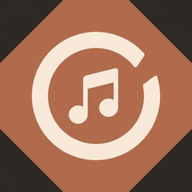
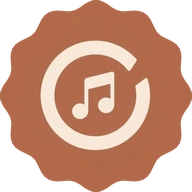
Add files via upload

diff --git a/index.html b/index.html
@@ -6,7 +6,10 @@
 <title>ExMusic — Яндекс Музыка на Material 3 Expressive</title>
 <meta name="description" content="ExMusic — нативный клиент Яндекс Музыки для Android: «Моя волна», чарт, распознавание музыки, эквалайзер, плейлисты и темы под ваш цвет.">
 <meta name="theme-color" content="#12131a">
-<link rel="icon" href="assets/icon.png">
+<link rel="icon" href="favicon.svg" type="image/svg+xml">
+<link rel="icon" href="favicon-32.png" type="image/png" sizes="32x32">
+<link rel="icon" href="favicon.ico" sizes="48x48">
+<link rel="apple-touch-icon" href="apple-touch-icon.png">
 <link rel="stylesheet" href="style.css">
 <script src="script.js"></script>
 </head>
@@ -29,7 +32,7 @@
 </svg>
 
 <header class="bar">
-  <a class="brand" href="#top"><img src="assets/icon.png" alt="" width="40" height="40">ExMusic</a>
+  <a class="brand" href="#top"><img src="favicon.svg" alt="" width="40" height="40">ExMusic</a>
   <nav aria-label="Разделы">
     <a href="#features">Возможности</a>
     <a href="#screens">Скриншоты</a>

diff --git a/style.css b/style.css
@@ -33,7 +33,7 @@ h3{font-size:clamp(24px,2.4vw,32px);line-height:1.15;font-weight:700;letter-spac
 /* Плавающая панель */
 .bar{position:fixed;z-index:10;top:12px;left:50%;translate:-50% 0;display:flex;align-items:center;gap:4px;max-width:calc(100% - 24px);padding:8px 8px 8px 12px;background:var(--s3);border-radius:var(--rb)}
 .brand{display:flex;align-items:center;gap:10px;margin-right:16px;font-weight:700;font-size:20px;text-decoration:none}
-.brand img{width:40px;height:40px;clip-path:url(#cookie12)}
+.brand img{width:40px;height:40px}
 .bar nav{display:flex;gap:2px}
 .bar nav a{padding:10px 16px;border-radius:var(--rb);text-decoration:none;font-weight:500;color:var(--ov);transition:background .2s,border-radius .35s var(--spring)}
 .bar nav a:hover{background:var(--s4);color:var(--on)}
